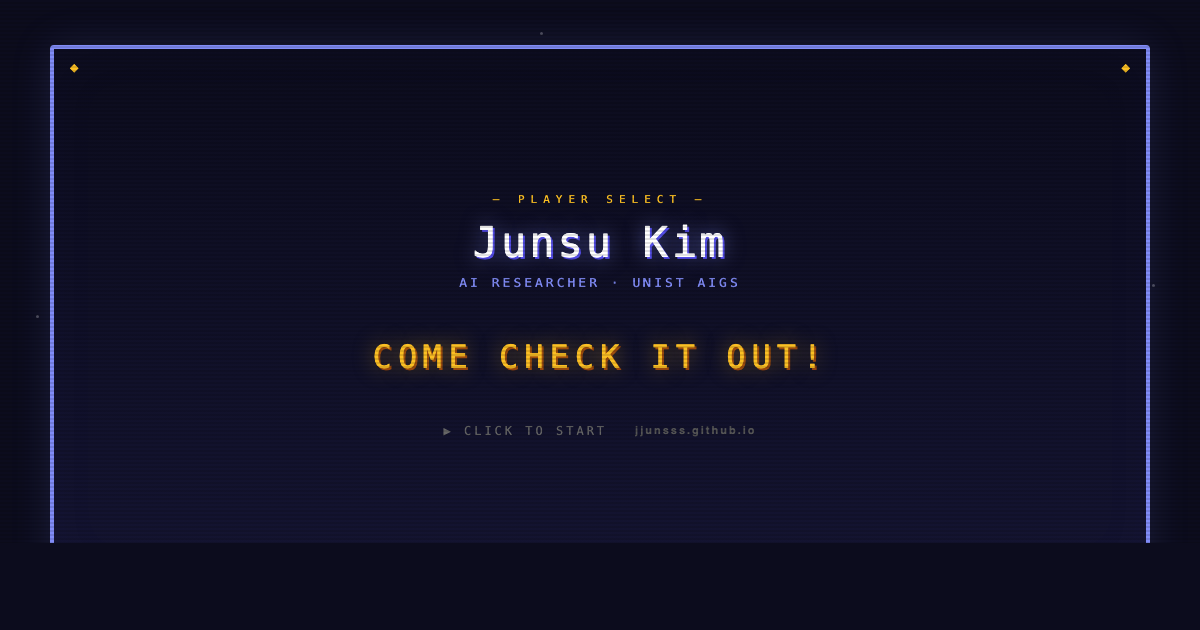
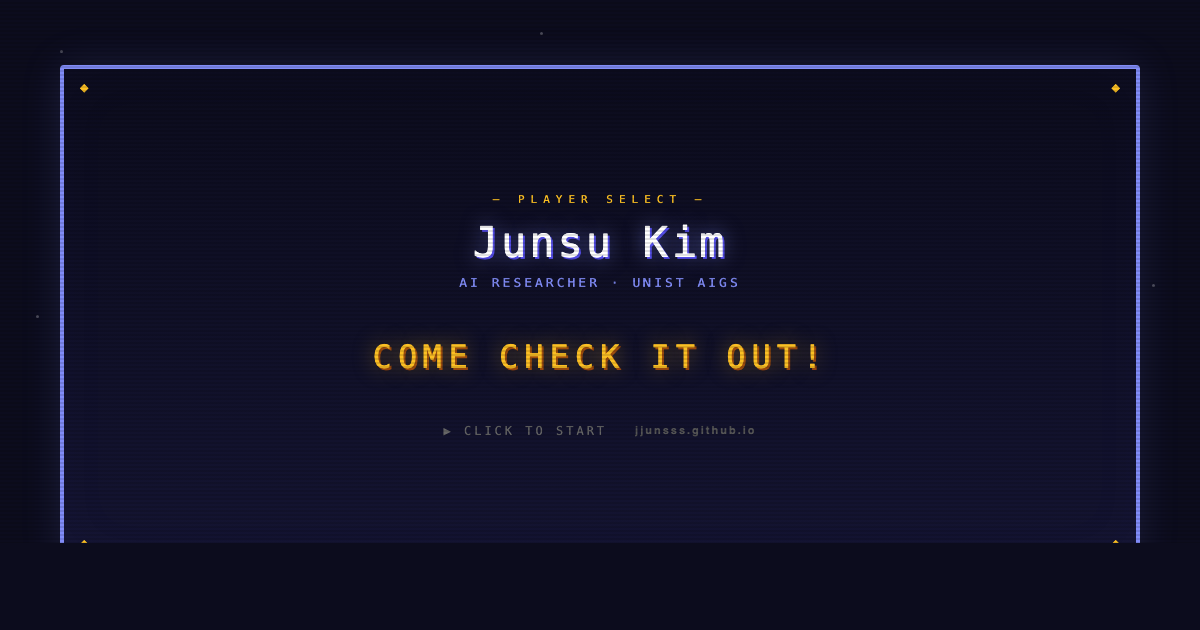
Fix OG card image bottom cutoff by reducing card dimensions

Changed region(s): [[0.0308, 0.0603, 0.9558, 0.8746]]

diff --git a/og-image.html b/og-image.html
@@ -41,7 +41,7 @@ body::after {
 }
 
 .card {
-    width: 1100px; height: 540px;
+    width: 1080px; height: 500px;
     border: 4px solid #818CF8;
     border-radius: 4px;
     position: relative;
